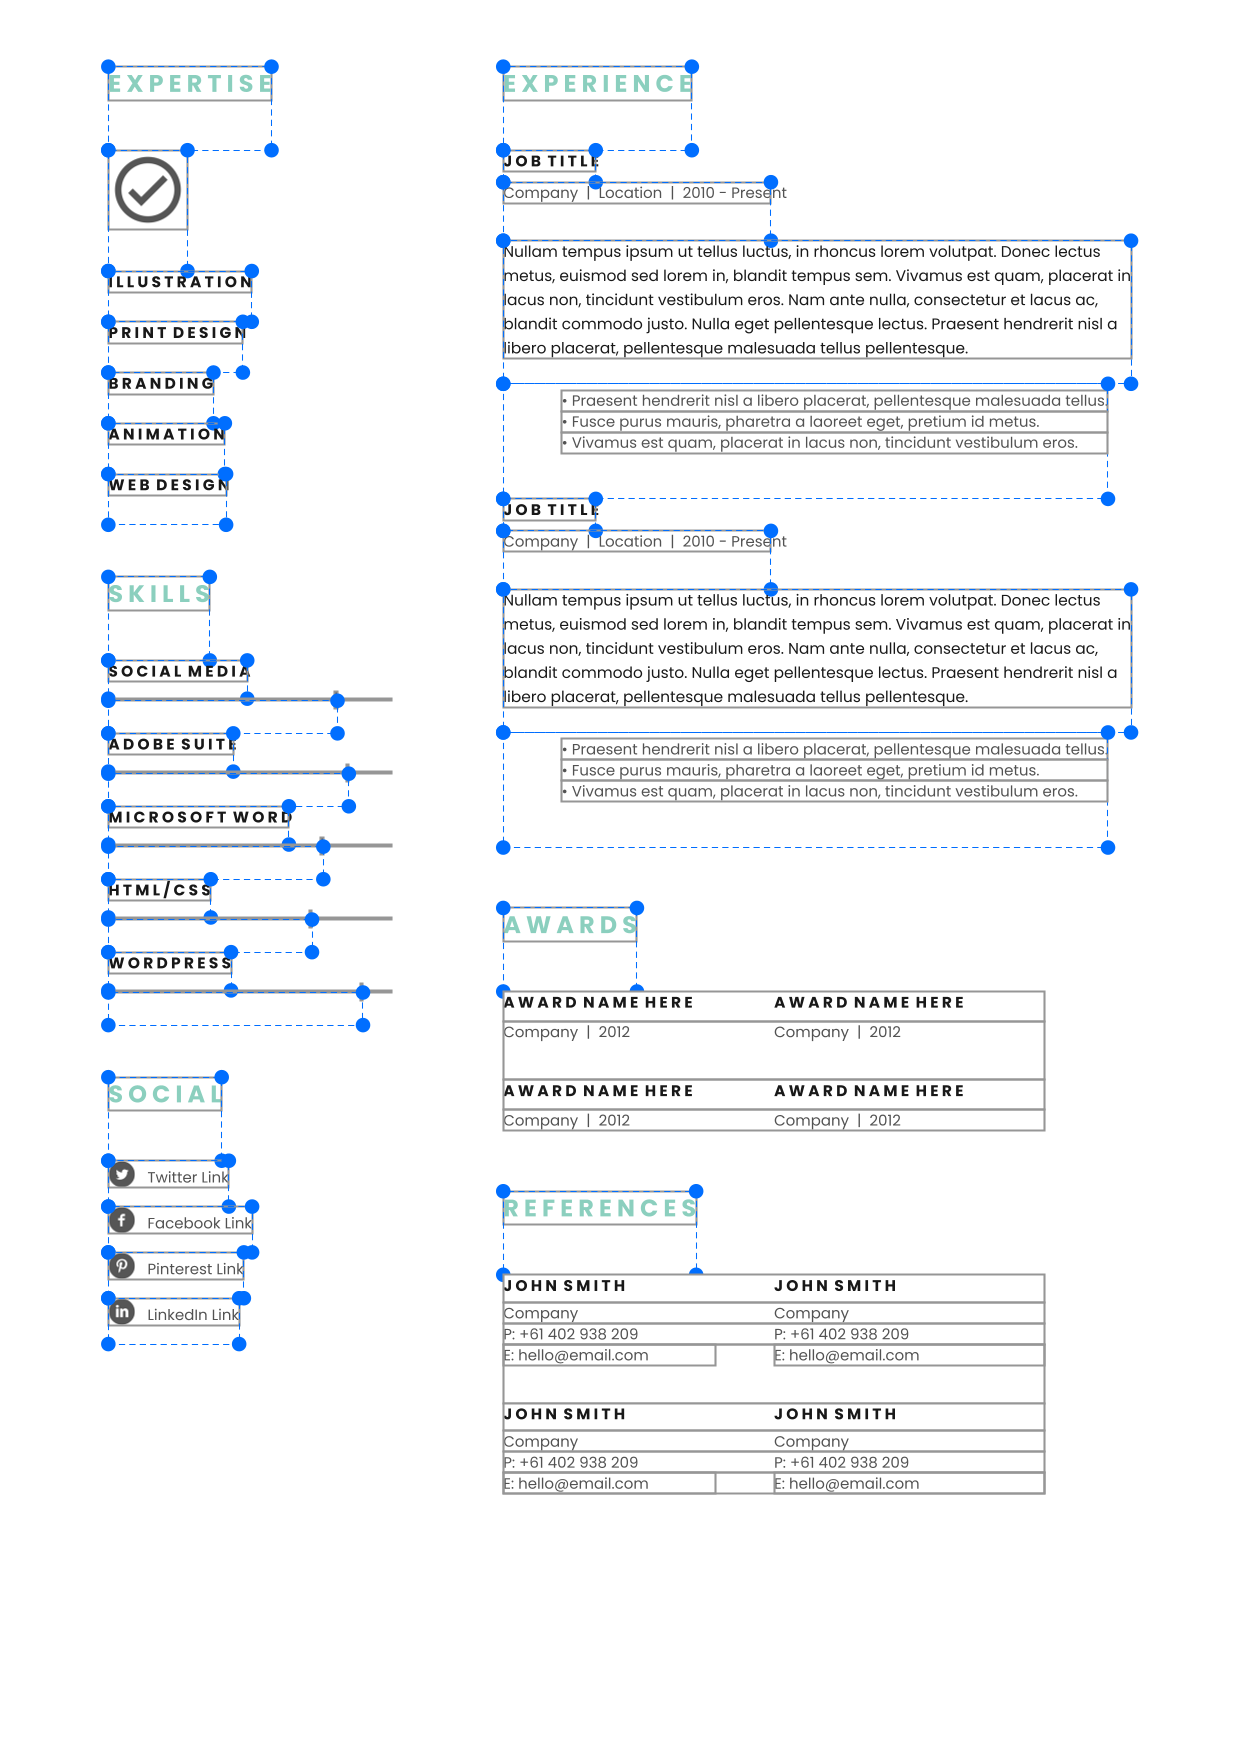
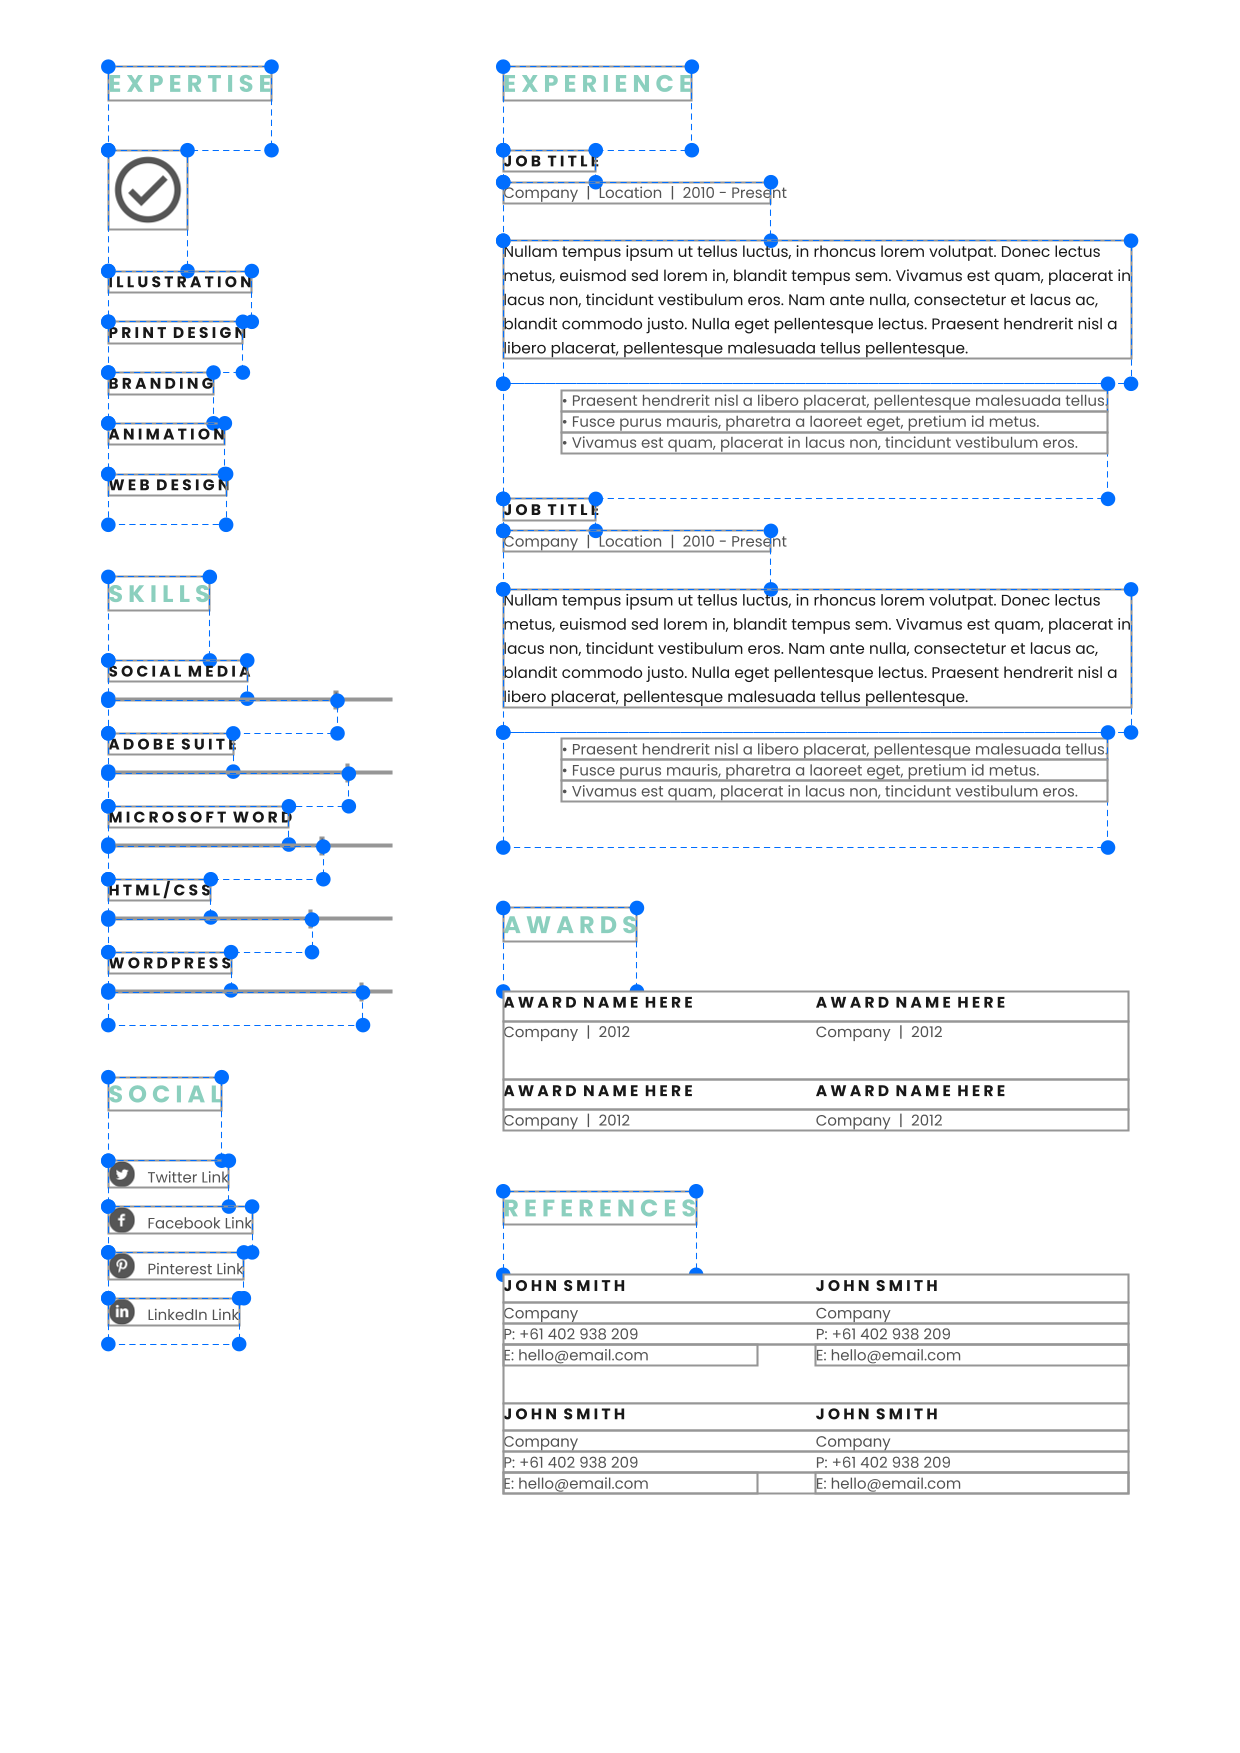
examples: approve revision-007 + republish bundle (Awards/Refs full width)
Revision Manager transition:
- revision-007 DRAFT -> APPROVED at 2026-05-19T00:50:00Z.
- revision-004 APPROVED -> SUPERSEDED (supersededBy: revision-007).
- template-project.json#currentApprovedRevisionId: 004 -> 007;
  previouslyApprovedRevisionId records the prior approval.

Republish:
- ran publish-template.mjs with --force-template to pull the new
  GRID_COLUMN_WIDTH=150 constant from revision-007. Re-applied the
  agent's polished Javadoc on top (class-level <h2>, Customization
  points, Fonts, Spaced-uppercase styling rule, Clickable links,
  Source provenance) and updated Source provenance to revision-007.
- preview/output.pdf, preview/output-debug.pdf, and per-page PNGs
  refreshed from revision-007.
- template.json#sourceRevision pinned to revision-007.
- templates/mint-editorial-cv/README.md and
  examples/cv-reference/README.md updated to point at the new
  approved revision.

diff --git a/templates/mint-editorial-cv/src/MintEditorialCvTemplate.java b/templates/mint-editorial-cv/src/MintEditorialCvTemplate.java
@@ -38,10 +38,11 @@ import com.demcha.examples.cv.MintEditorialCvSpec.SocialLink;
  *
  * Two-page editorial-style resume / CV template for a graphic designer.
  * Centered identity header with a full-width mint accent rule, two-column
- * body grids on every page, Iconify-backed contact and social glyphs,
- * filled-badge social icons, two-column Awards and References grids, and
- * bundled {@code Poppins} typography from the GraphCompose Google Fonts
- * library.
+ * body grids on page 1, a sidebar + main split on page 2 where AWARDS
+ * and REFERENCES fill the entire Main column as a half-and-half grid,
+ * Iconify-backed contact and social glyphs, filled-badge social icons,
+ * and bundled {@code Poppins} typography from the GraphCompose Google
+ * Fonts library.
  *
  * <h3>Usage</h3>
  *
@@ -135,8 +136,11 @@ import com.demcha.examples.cv.MintEditorialCvSpec.SocialLink;
  *       {@link #PAGE_MARGIN_SIDE}, {@link #PAGE_MARGIN_BOTTOM},
  *       {@link #COLUMN_GAP}, {@link #SIDEBAR_WIDTH}. Adjust the page
  *       trim or the sidebar / main split here.</li>
- *   <li><b>Grid widths for Awards and References</b> —
- *       {@link #GRID_COLUMN_WIDTH} and {@link #GRID_COLUMN_GAP}.</li>
+ *   <li><b>Awards / References grid</b> — {@link #GRID_COLUMN_WIDTH}
+ *       and {@link #GRID_COLUMN_GAP}. The default 150pt per column
+ *       makes the two-column grid fill the Main column exactly; the
+ *       28pt gap is taken from the left cell's right-padding so the
+ *       table itself spans the full Main width.</li>
  *   <li><b>Icon sizes</b> — the per-token point sizes are encoded in
  *       the {@link #ICONS} table; the entries mirror the
  *       {@code pointSize} field in
@@ -170,8 +174,9 @@ import com.demcha.examples.cv.MintEditorialCvSpec.SocialLink;
  *
  * <h3>Source provenance</h3>
  *
- * Published from {@code examples/cv-reference/revisions/revision-006}.
- * The source revision tree (orchestration-decision, architecture-plan,
+ * Published from {@code examples/cv-reference/revisions/revision-007}
+ * (current APPROVED baseline; supersedes revision-004). The source
+ * revision tree (orchestration-decision, architecture-plan,
  * data-schema, visual-review) lives in the example project and is the
  * authoritative audit record for this template's design decisions.
  *
@@ -217,7 +222,14 @@ public final class MintEditorialCvTemplate {
     private static final double SIDEBAR_WIDTH = 136.0;
     private static final double SKILL_BAR_WIDTH = SIDEBAR_WIDTH;
     private static final double SKILL_MARKER_HEIGHT = 8.0;
-    private static final double GRID_COLUMN_WIDTH = 130.0;
+    // Awards / References render as a 2-column TableBuilder inside the Main
+    // section of PageTwoGrid. The Main inner width = 0.69 * (FULL_PAGE_WIDTH
+    // - 2*PAGE_MARGIN_SIDE - COLUMN_GAP) = 0.69 * 437 ≈ 301.5pt. Splitting
+    // that exactly in half ⇒ each grid column = ~150pt. The 28pt visual gap
+    // between the two columns is taken from the left column's
+    // right-padding inside the cell, so the table itself spans the full
+    // Main width with the divide sitting at the half-point.
+    private static final double GRID_COLUMN_WIDTH = 150.0;
     private static final double GRID_COLUMN_GAP = 28.0;
 
     private record IconSpec(String fileName, double pointSize) {

diff --git a/examples/cv-reference/README.md b/examples/cv-reference/README.md
@@ -11,8 +11,8 @@ typography.
 |---|---|
 | Project slug                | `cv-reference` |
 | Display name                | **Mint Editorial CV** |
-| Approved revision           | `revision-004` |
-| Current draft               | `revision-006` (data-driven refactor — content in `cv-data.json`) |
+| Approved revision           | `revision-007` (full-width Awards/References; supersedes revision-004) |
+| Current draft               | `revision-007` |
 | Spec class                  | [`MintEditorialCvSpec`](render-runner/src/main/java/com/demcha/examples/cv/MintEditorialCvSpec.java) |
 | Data schema                 | [`revisions/revision-006/data-schema.md`](revisions/revision-006/data-schema.md) |
 | Target GraphCompose version | `1.6.0` |

diff --git a/templates/mint-editorial-cv/README.md b/templates/mint-editorial-cv/README.md
@@ -12,7 +12,7 @@ and bundled `Poppins` typography.
 | Template id          | `mint-editorial-cv` |
 | Display name         | **Mint Editorial CV** |
 | Source project       | `examples/cv-reference` |
-| Source revision      | `revision-006` |
+| Source revision      | `revision-007` (APPROVED; supersedes revision-004) |
 | GraphCompose version | `1.6.0` |
 | Spec record          | [`MintEditorialCvSpec`](src/MintEditorialCvSpec.java) |
 | Render class         | [`MintEditorialCvTemplate`](src/MintEditorialCvTemplate.java) |

diff --git a/examples/cv-reference/revisions/revision-004/status.md b/examples/cv-reference/revisions/revision-004/status.md
@@ -3,7 +3,8 @@
 - Template: **Mint Editorial CV** (`cv-reference`)
 - Revision: `revision-004`
 - Parent: `revision-003`
-- Status: `APPROVED` (2026-05-18T23:00:00Z)
+- Status: `SUPERSEDED` (by revision-007 on 2026-05-19T00:50:00Z)
+- Was: `APPROVED` (2026-05-18T23:00:00Z)
 - Renderable: YES
 - Pixel-perfect: NO (see `visual-review.md` for the remaining MINOR
   differences)

diff --git a/examples/cv-reference/revisions/revision-007/status.md b/examples/cv-reference/revisions/revision-007/status.md
@@ -3,7 +3,8 @@
 - Template: **Mint Editorial CV** (`cv-reference`)
 - Revision: `revision-007`
 - Parent: `revision-006`
-- Status: `DRAFT`
+- Status: `APPROVED` (2026-05-19T00:50:00Z)
+- Supersedes: `revision-004`
 - Renderable: YES
 - Pixel diff vs parent page-1: 0 (byte-identical)
 - Pixel diff vs parent page-2: 15334 px (0.71%) — the intentional
